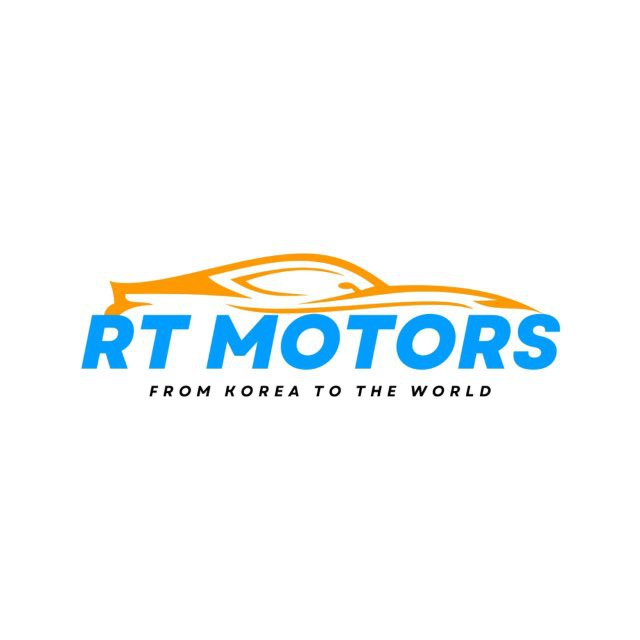
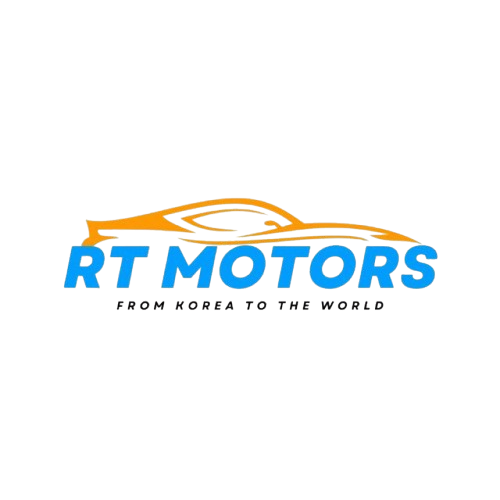
W

diff --git a/client/components/mods/why-choose-us.tsx b/client/components/mods/why-choose-us.tsx
@@ -8,17 +8,17 @@ export const WhyChooseUs = () => {
 
   const items = [
     {
-      title: t("expertise"),
+      title: t("countries"),
       count: "10+",
     },
     {
       title: t("clients"),
-      count: "500+",
+      count: "1000+",
     },
-    {
-      title: t("projects"),
-      count: "100+",
-    },
+    // {
+    //   title: t("projects"),
+    //   count: "100+",
+    // },
     {
       title: t("support"),
       count: "24/7",
@@ -33,13 +33,13 @@ export const WhyChooseUs = () => {
       <h1 className="text-center text-2xl md:text-3xl sm:text-2xl mt-4 font-semibold text-[#234F72]">
         {t("title")}
       </h1>
-      <p className="text-center mt-4 max-w-5xl text-gray-500 text-sm md:text-base">
+      <p className="text-center mt-4 max-w-3xl text-gray-500 text-sm md:text-base">
         {t("description")}
       </p>
-      <div className="grid  lg:grid-cols-4 grid-cols-2 gap-12 md:gap-6 mt-8">
+      <div className="grid grid-cols-3 gap-4 md:gap-10 mt-8">
         {items.map(({ title, count }, index) => (
           <div key={index} className="w-full flex flex-col bg-white border justify-center items-center p-8 md:p-6 sm:p-4 rounded-md">
-            <h1 className="text-3xl md:text-4xl sm:text-3xl font-bold text-black">
+            <h1 className="text-2xl md:text-4xl sm:text-3xl font-bold text-black">
               {count}
             </h1>
             <p className="mt-2 text-xs md:text-lg sm:text-base text-gray-500 font-semibold">

diff --git a/client/components/mods/footer.tsx b/client/components/mods/footer.tsx
@@ -9,7 +9,7 @@ export default function Footer() {
     <footer className="bg-[#1E242C] text-white px-[5%] pt-14">
       <div className="grid grid-cols-1 md:grid-cols-12 gap-10 pb-14">
 
-        <div className="md:col-span-4">
+        <div className="md:col-span-3">
           <h1 className="text-3xl font-bold mb-3">
             RT Holdings
           </h1>
@@ -19,22 +19,21 @@ export default function Footer() {
 
         </div>
 
-        <div className="md:col-span-3">
-          <h3 className="text-gray-300 mb-5">{t("links")}</h3>
+        <div className="md:col-span-4">
+          <h3 className="text-gray-300 mb-5 text-start md:text-center font-bold">{t("links")}</h3>
 
-          <div className="grid grid-cols-2 gap-4 text-sm">
-            <ul className="space-y-3">
-              <li><Link href="/">{t("home")}</Link></li>
+          <div className="grid grid-cols-3 gap-2 text-sm">
+            <ul className="flex flex-col md:flex-row md:items-center gap-3">
+              <li className="whitespace-nowrap"><Link href="/">{t("about.title")}</Link></li>
               <li><Link href="/companies">{t("companies")}</Link></li>
               <li><Link href="/services">{t("services")}</Link></li>
               <li><Link href="/team">{t("team")}</Link></li>
               <li><Link href="/blogs">{t("blogs")}</Link></li>
             </ul>
-
           </div>
         </div>
         <div className="md:col-span-2">
-          <h3 className="text-gray-300 mb-5">{t("contact")}</h3>
+          <h3 className="text-gray-300 mb-5 font-bold">{t("contact")}</h3>
 
           <ul className="space-y-4 text-sm">
             <li className="flex items-center gap-3">

diff --git a/client/components/mods/blogs/blogs.tsx b/client/components/mods/blogs/blogs.tsx
@@ -85,7 +85,7 @@ export default function BlogsComponent() {
                 <img
                   src={image}
                   alt={title[i18n.language as keyof Lang]}
-                  className="w-full h-48 object-cover"
+                  className="w-full h-96 object-cover"
                 />
 
                 <span className="bg-[#1E242C] text-white py-1 px-2 font-semibold text-sm absolute top-2 left-2">
@@ -93,11 +93,11 @@ export default function BlogsComponent() {
                 </span>
 
                 <div className="p-4">
-                  <h2 className="text-xl font-semibold mt-2 line-clamp-2">
+                  <h2 className="font-semibold mt-2">
                     {title[i18n.language as keyof Lang]}
                   </h2>
 
-                  <p className="mt-2 text-gray-600 line-clamp-3">
+                  <p className="mt-2 text-gray-600 leading-5  text-xs">
                     {text[i18n.language as keyof Lang]}
                   </p>
 

diff --git a/client/components/mods/navbar.tsx b/client/components/mods/navbar.tsx
@@ -8,12 +8,11 @@ import { cn } from "@/lib/utils"
 import { useState } from "react"
 import { LanguageSelect } from "@/lang/language"
 import { useTranslation } from "react-i18next"
-import { usePathname } from "next/navigation"
 export const Navbar = () => {
   const [open, setOpen] = useState(false)
   const { t } = useTranslation("common")
   const items = [
-    { label: "home", href: "/" },
+    { label: "about.title", href: "/" },
     { label: "companies", href: "/companies" },
     { label: "services", href: "/services" },
     { label: "team", href: "/team" },

diff --git a/admin/src/pages/blog.tsx b/admin/src/pages/blog.tsx
@@ -105,7 +105,7 @@ export const Blog = () => {
               <img
                 src={image}
                 alt={title[language]}
-                className="w-full h-40 object-cover object-center rounded-md mt-6"
+                className="w-full h-64 object-cover object-center rounded-md mt-6"
               />
             )}
 

diff --git a/client/app/services/page.tsx b/client/app/services/page.tsx
@@ -21,7 +21,7 @@ export default function Services() {
       <Navbar />
       <div className="bg-[#1E242C] h-[10vh]" />
       <Top />
-      <Line />
+      {/* <Line /> */}
       <WhatWeDo />
       <HowWeWork />
       <Banner />

diff --git a/client/components/mods/main.tsx b/client/components/mods/main.tsx
@@ -6,7 +6,7 @@ export const Main = () => {
   const { t } = useTranslation("common");
 
   return (
-    <div className="relative h-[90vh] pt-60 md:pt-0 flex flex-col md:flex-row md:items-center overflow-hidden">
+    <div className="relative h-[90vh] pt-40 md:pt-0 flex flex-col md:flex-row md:items-center overflow-hidden">
 
       <div className="hidden md:block absolute inset-0 bg-[#1E242C] clip-diagonal"></div>
       <div className="absolute -rotate-45 top-0 -left-92 z-10 inset-0 bg-[#1E242C] clip-diagonal"></div>

diff --git a/client/components/mods/projects.tsx b/client/components/mods/projects.tsx
@@ -25,7 +25,7 @@ const images = [
   {
     src: "/rt-motors.png",
     alt: "RT Motors",
-    width: 100,
+    width: 150,
     height: 60,
   },
   {